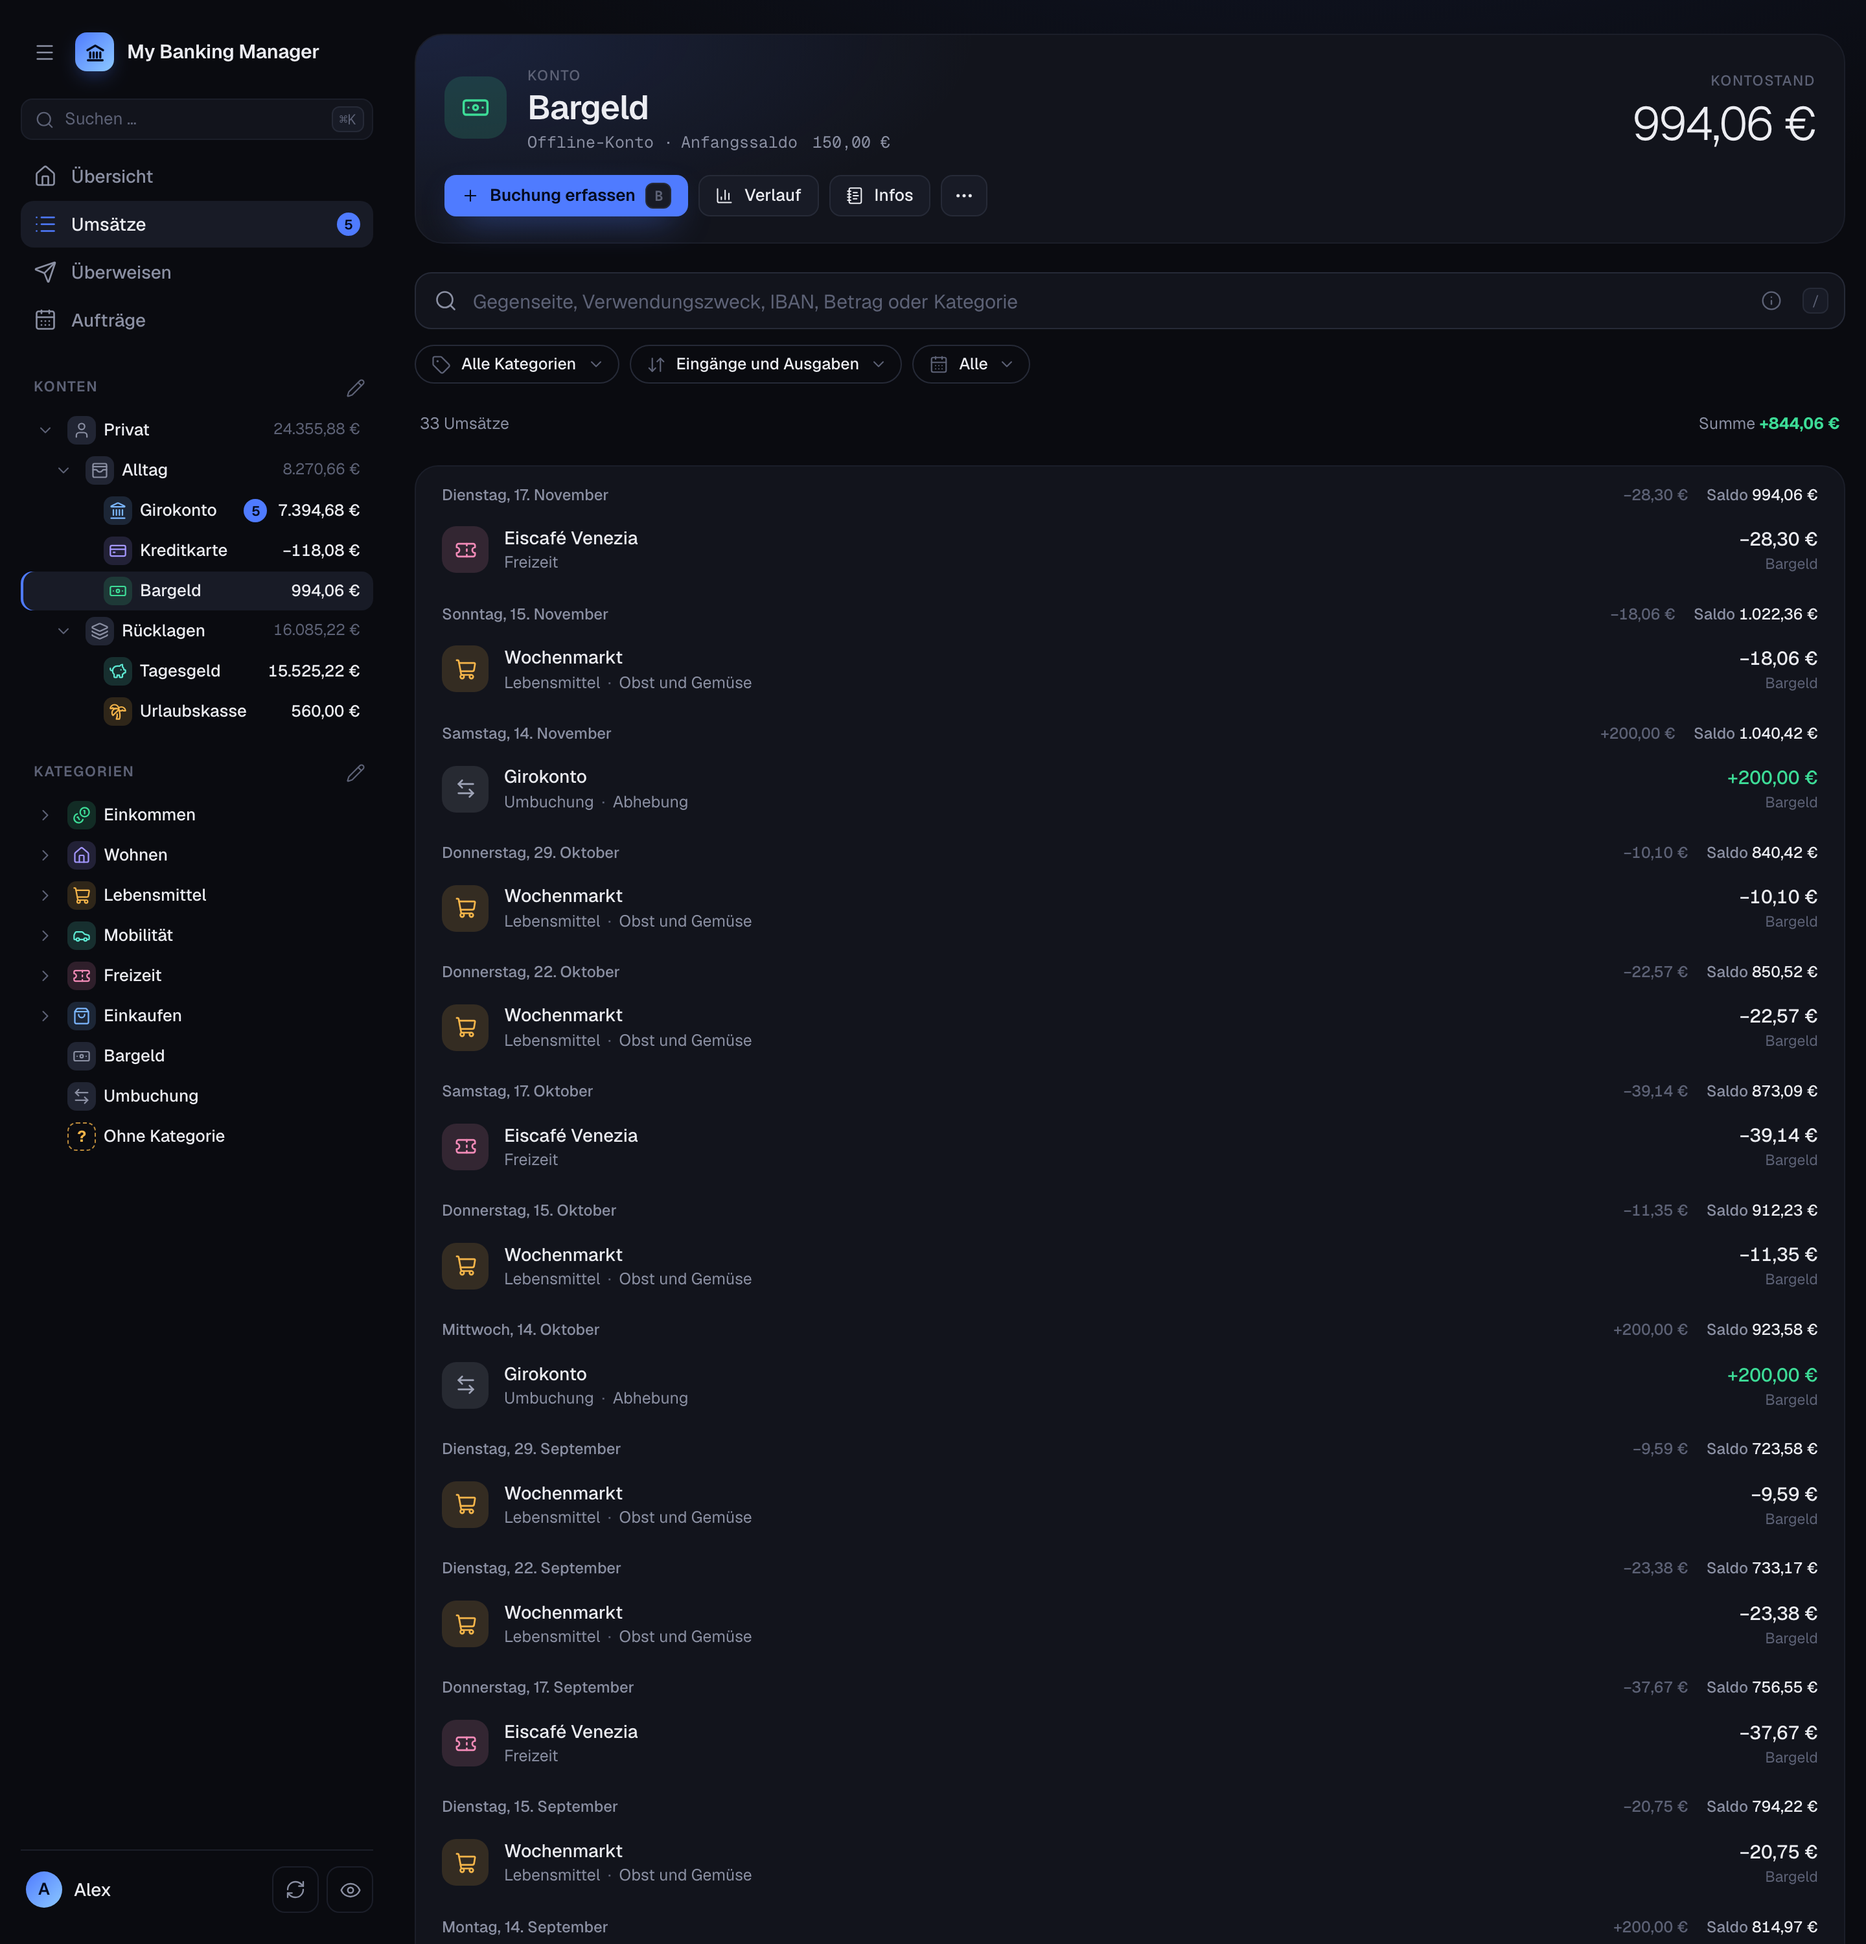
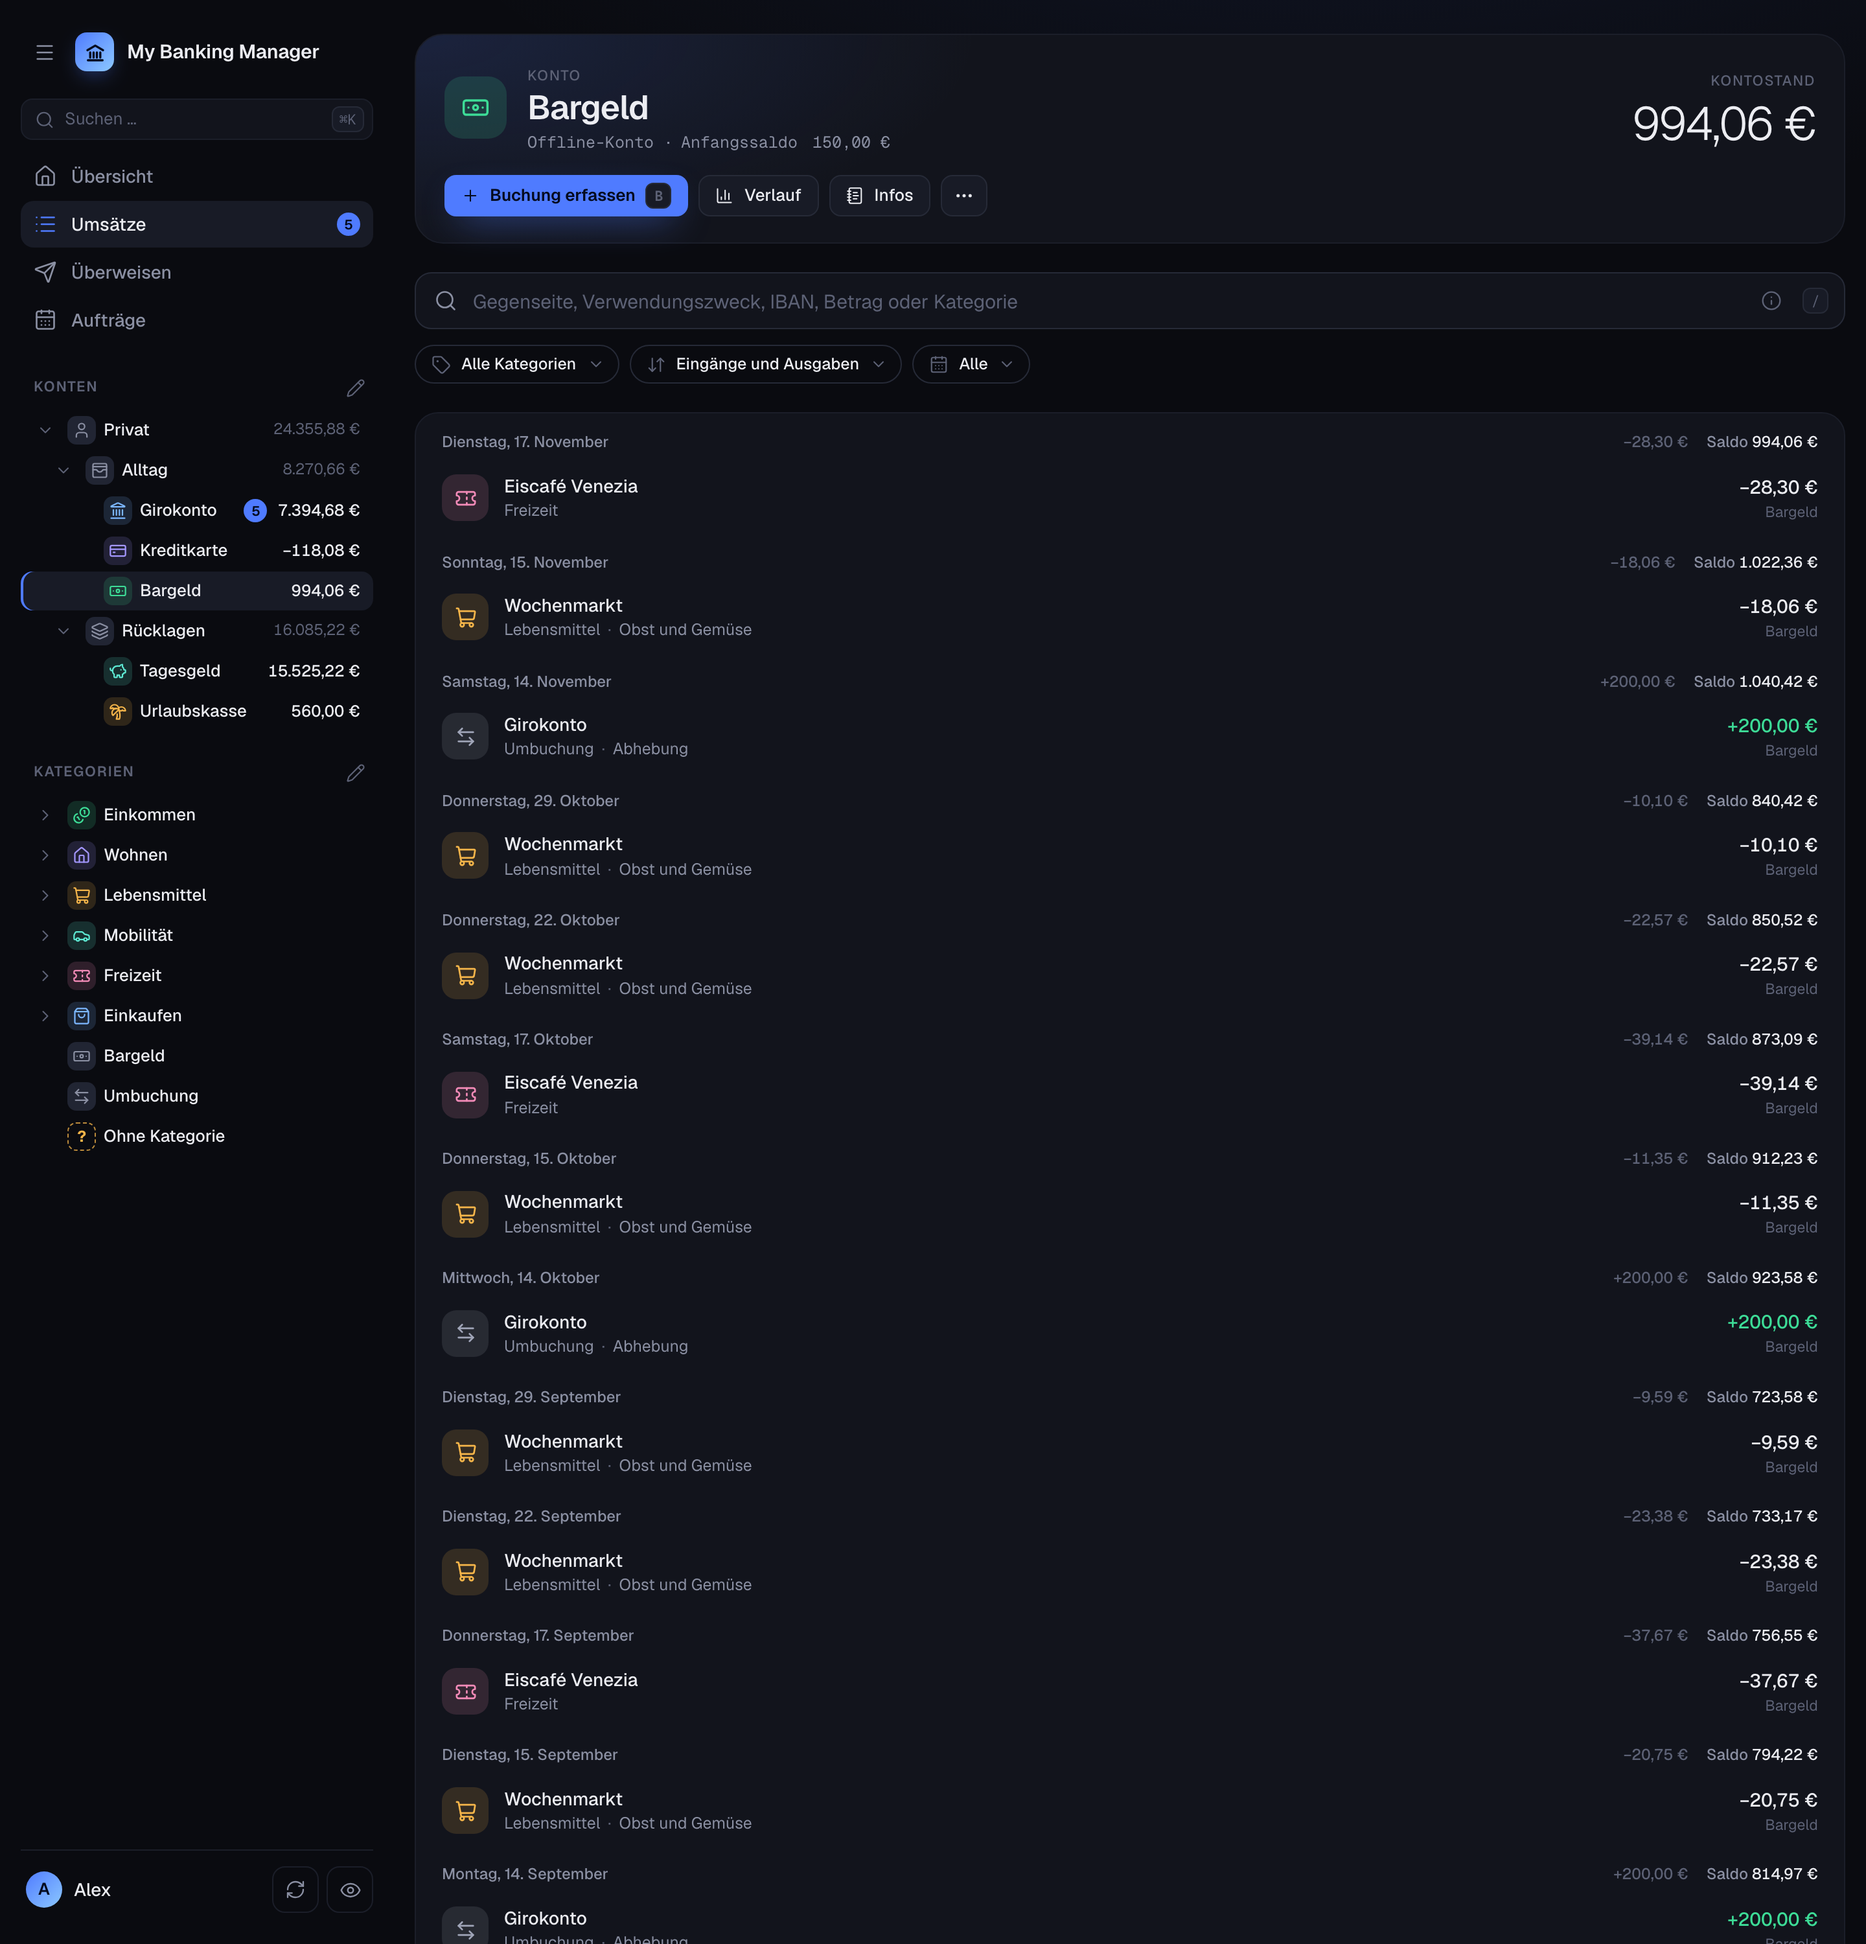
feat(umsätze): Zeile mit Anzahl und Summe über der Umsatzliste entfernen

diff --git a/clients/web/src/styles/app.css b/clients/web/src/styles/app.css
@@ -472,7 +472,6 @@ button.av:hover { box-shadow: inset 0 0 0 1px var(--c); }
 .chip { display: inline-flex; align-items: center; gap: 6px; height: 30px; padding: 0 12px; border-radius: 999px; border: 1px solid var(--line); background: transparent; color: var(--muted); font-size: 12.5px; font-weight: 500; }
 .chip:hover { color: var(--fg); border-color: var(--faint); }
 .chip[aria-pressed="true"] { background: var(--fg); border-color: var(--fg); color: var(--bg); }
-.sumline { display: flex; justify-content: space-between; gap: 12px; flex-wrap: wrap; color: var(--muted); font-size: 12.5px; padding-inline: 4px; }
 .empty { display: grid; justify-items: center; text-align: center; gap: 8px; padding: 44px 16px; color: var(--muted); }
 .empty b { color: var(--fg); font-size: 15px; font-weight: 600; }
 .empty .acc-ic { width: 44px; height: 44px; border-radius: 13px; }

diff --git a/clients/web/src/pages/Transactions.tsx b/clients/web/src/pages/Transactions.tsx
@@ -429,18 +429,6 @@ function TransactionList() {
                     />
                 )}
             </div>
-            <div className="sumline">
-                {list.data ? (
-                    <>
-                        <span>{plural(list.data.count, "Umsatz", "Umsätze")}{list.data.truncated ? " (gekürzt)" : ""}</span>
-                        <span>
-                            Summe <Amt cents={list.data.total} signed as="b" />
-                        </span>
-                    </>
-                ) : (
-                    <span>Wird geladen …</span>
-                )}
-            </div>
             <section className="panel list-panel" aria-label="Umsatzliste" aria-busy={list.isFetching}>
                 {items.length ? (
                     <TxList

diff --git a/.release/next.md b/.release/next.md
@@ -20,3 +20,4 @@ Nothing inside an HTML comment is published.
 
 - Konten mit seltenen Buchungen verlangen beim Abruf nicht mehr jedes Mal eine Freigabe in der App: Ein Abruf beginnt jetzt zwei Wochen vor dem letzten Abruf des Kontos statt zwei Wochen vor seiner neuesten Buchung, die Monate zurückliegen kann. Nach dem Update gilt für jedes Konto beim ersten Abruf noch die alte Regel.
 - Das Fenster „Abruf“, das sich für eine Freigabe öffnet, schließt sich nach einem erfolgreichen Abruf von selbst; das Ergebnis meldet wie gewohnt eine Nachricht. Offen bleibt es nur, wenn es etwas zu lesen gibt, etwa neue oder fehlende Konten bei der Bank. Statt „Alle abrufen“ bietet es bei einem fehlgeschlagenen Abruf „Erneut abrufen“ für diesen Bankzugang an.
+- Über der Umsatzliste steht nicht mehr die Zeile mit Anzahl und Summe der Umsätze. Die Summe einer Kategorie zeigt weiterhin ihr Kopf.

diff --git a/docs/guide/umsaetze.md b/docs/guide/umsaetze.md
@@ -76,8 +76,8 @@ Umsatz.
 ## Filter
 
 Über der Liste stehen drei Filter: **Kategorien**, **Eingänge und Ausgaben** und **Zeitraum**
-(dieser Monat, Vormonat, 30, 90 oder 365 Tage, alle). Die Liste zeigt die Anzahl und die Summe
-aller passenden Umsätze. **Verlauf** im Kopf blendet den Saldoverlauf des gewählten Kontos ein.
+(dieser Monat, Vormonat, 30, 90 oder 365 Tage, alle). **Verlauf** im Kopf blendet den
+Saldoverlauf des gewählten Kontos ein.
 
 ## Suche
 
